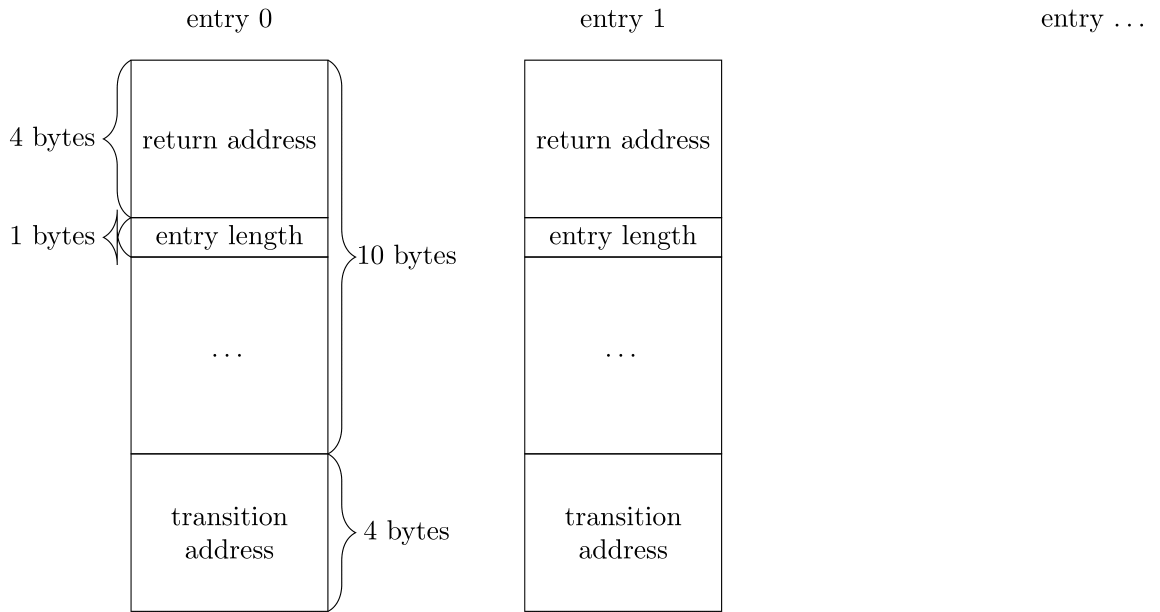
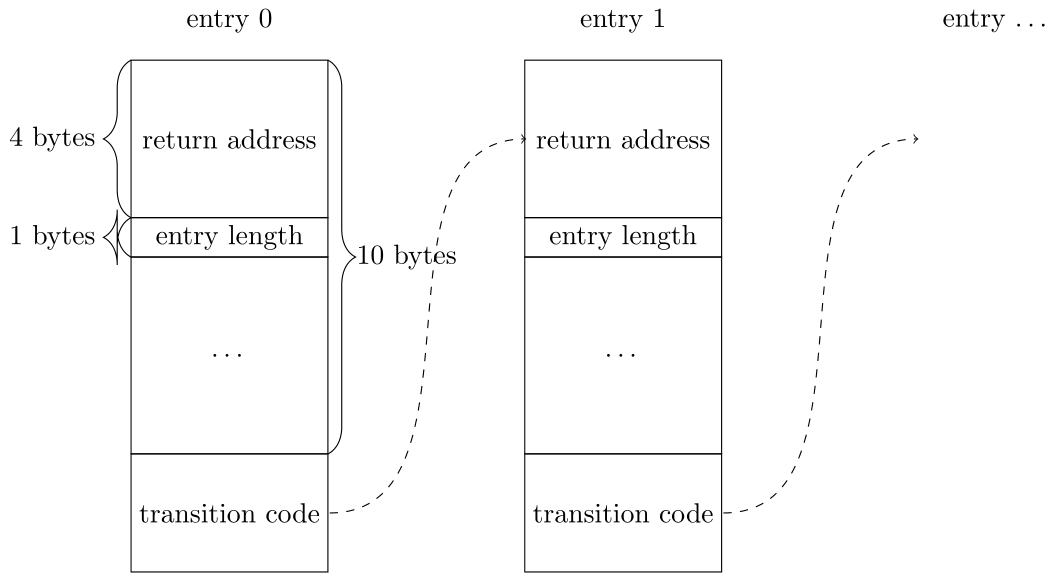
update

diff --git a/F4b_XOR_W4kfu_GreHack2015/diagram.tex b/F4b_XOR_W4kfu_GreHack2015/diagram.tex
@@ -20,17 +20,18 @@
   \draw[align=center] (0,0) rectangle node{return address} (2.5,2);
   \draw[] (0,-0.5) rectangle node{entry length} (2.5,0);
   \draw[] (0,-3) rectangle node{$\dots$} (2.5,-0.5);
-  \draw[align=center] (0,-5) rectangle node{transition \\ address} (2.5,-3);
+  \draw[align=center] (0,-4.5) rectangle node(tran0){transition code} (2.5,-3);
+  
   \draw[decorate,decoration={brace,amplitude=10pt}] (0,0) -- (0,2) node[black,midway,xshift=-1cm] {$4$ bytes};
   \draw[decorate,decoration={brace,amplitude=10pt}] (0,-0.5) -- (0,0) node[black,midway,xshift=-1cm] {$1$ bytes};
   \draw[decorate,decoration={brace,amplitude=10pt,mirror}] (2.5,-3) -- (2.5,2) node[black,midway,xshift=1cm] {$10$ bytes};
-  \draw[decorate,decoration={brace,amplitude=10pt,mirror}] (2.5,-5) -- (2.5,-3) node[black,midway,xshift=1cm] {$4$ bytes};
+  % \draw[decorate,decoration={brace,amplitude=10pt,mirror}] (2.5,-5) -- (2.5,-3) node[black,midway,xshift=1cm] {$4$ bytes};
   \draw[] (1.25,2.5) node{entry $0$};
 
-  \draw[align=center] (5,0) rectangle node{return address} (7.5,2);
+  \draw[align=center] (5,0) rectangle node(ret1){return address} (7.5,2);
   \draw[] (5,-0.5) rectangle node{entry length} (7.5,0);
   \draw[] (5,-3) rectangle node{$\dots$} (7.5,-0.5);
-  \draw[align=center] (5,-5) rectangle node{transition \\ address} (7.5,-3);
+  \draw[align=center] (5,-4.5) rectangle node(tran1){transition code} (7.5,-3);
   % \draw[decorate,decoration={brace,amplitude=10pt}] (5,0) -- (5,4) node[black,midway,xshift=-1cm] {$4$ bytes};
   % \draw[decorate,decoration={brace,amplitude=10pt}] (5,-1) -- (5,0) node[black,midway,xshift=-1cm] {$1$ bytes};
   % \draw[decorate,decoration={brace,amplitude=10pt,mirror}] (7.5,-6) -- (7.5,4) node[black,midway,xshift=1cm] {$10$ bytes};
@@ -38,8 +39,11 @@
   \draw[] (6.25,2.5) node{entry $1$};
 
   % \draw[align=center] (10,0) rectangle node{return address} (12.5,4);
-  \draw[] (12.25,2.5) node{entry $\dots$};
+  \draw[] (11,2.5) node{entry $\dots$};
   % \draw[] (12.25,-3.5) node{$\dots$};
+
+  \draw[->,dashed] (tran0) to[out=0,in=180] (ret1);
+  \draw[->,dashed] (tran1) to[out=0,in=180] (10,1);
 \end{tikzpicture}
 
 \end{document}

diff --git a/F4b_XOR_W4kfu_GreHack2015/f4b_xor_w4kfu.md b/F4b_XOR_W4kfu_GreHack2015/f4b_xor_w4kfu.md
@@ -34,7 +34,7 @@
   
   The program uses several **obfuscation** techniques to prevent itself from being analyzed. *First*, its execution traces are extremely long taking consideration that the program is *just* a CTF challenge; to get some idea about how long are these trace, after receiving the input, there are 2.716.465.511 instructions executed until the first comparison of the password checking procedure. This is because of a [code decryption/re-encryption](https://www.cosic.esat.kuleuven.be/wissec2006/papers/3.pdf) mechanism and of a [nested multiprocess virtual machine](https://aspire-fp7.eu/spro/wp-content/uploads/SPRO2015_Workshop_Talk_V2.pdf) execution model.
   
-  *Second*, the "input related" instructions in a trace are not local, they instead spread out the long trace, that makes difficult to figure out how the input password is manipulated and checked; moreover the password checking algorithm is "mostly" constant time. *Last but not least*, most instructions of the binary are encrypted, they are decrypted just before executing and are immediately re-encrypted later, so we cannot [unpack](http://s3.eurecom.fr/docs/oakland15_packing.pdf) it in the [classical sense](http://ftp.cs.wisc.edu/paradyn/papers/Roundy12Packers.pdf). 
+  *Second*, the "input related" instructions in a trace are not local, they instead spread out the long trace, that makes difficult to figure out how the input password is manipulated and checked; moreover the password checking algorithm is "mostly" constant time. *Last but not least*, most instructions of the binary are encrypted, they are decrypted just before executing and are immediately re-encrypted later, so we cannot [unpack](https://www.cs.arizona.edu/people/debray/Publications/static-unpacking.pdf) it in the [classical sense](http://ftp.cs.wisc.edu/paradyn/papers/Roundy12Packers.pdf). Such technique of code packing is classified into [type VI](http://s3.eurecom.fr/docs/oakland15_packing.pdf), the most sophisticated class of binary code packers.
   
   These properties make difficult for direct dynamic/concolic/static analysis. Low-hanging fruit approaches, e.g. black-box attack on counting number of executed instructions, seems not feasible: there is volume of more than 2.7 billion instructions must be passed before reaching the first "input sensitive" comparison
   
@@ -48,32 +48,36 @@
   
   But this short easy reversing time has finished, from now, easy codes do not exist anymore >:)
 
-## Code decryption/re-encryption mechanism
+### Code overwritting
 
-  Passing statically over simple instructions above, the next instructions seem "benign" :-), some `nop`(s), then a `call 0x40400`. However, Reven notices that there are lots of **execution after write** (i.e. some memory addresses are written before getting executed). Some of them are redundant alerts since the process mapping mechanism of `ntoskrnl.exe`, but the first one which really attracts our attention is at `0x402058`: the really executed instruction is `xor eax, eax`, instead of `js 0x40200d` from the static disassembling result.
+  Passing statically over simple instructions above, the next instructions seem "benign" :-), some `nop`(s), then a `call 0x40400`. However, Reven notices that there are lots of **execution after write** (i.e. some memory addresses are overwritten before getting executed). Some of them are redundant alerts since the process mapping mechanism of `ntoskrnl.exe`, but the first one which really attracts our attention is at `0x402058`: the really executed instruction is `xor eax, eax`, instead of `js 0x40200d` from the static disassembling result.
   
   ![Execution after write](./reven_exec_after_write.png)
   
   *Different form DBI tools and debuggers which work at process level, Reven works at system level, it can trace the [flow of creating a process](https://download.microsoft.com/download/1/4/0/14045A9E-C978-47D1-954B-92B9FD877995/97807356648739_SampleChapters.pdf) (i.e. before the program gets run), here many instructions of the binary are mapped (i.e. written) into the memory using some functions (e.g. `MiCopyOnWrite`) inside `ntoskrnl.exe`, then executed when the program gets run. Consequently, these instructions are redundantly marked as "execution after write".*
   
-  From static view in IDA, we can conclude that something following `call 0x40400` has modified the instruction at `0x402058`. We have more detail information with Reven, by backward [dynamic tainting analysis](http://bitblaze.cs.berkeley.edu/papers/taintcheck-full.pdf), it shows a chain of `read/write/execute` on this address, the nearest instruction which writes on the address is at `0x4042fa`, that is `stosb`.
+  There must be something following `call 0x40400` has modified the instruction at `0x402058`. By backward [dynamic tainting analysis](http://bitblaze.cs.berkeley.edu/papers/taintcheck-full.pdf), Reven shows a chain of `read/write/execute` on this address, the nearest instruction which writes on the address is at `0x4042fa`, that is `stosb`.
   
   ![Writting instruction](./reven_overwritting_ins.png)
   
-### First virtualization layer
+## First virtualization layer
   
-  We now know that the binary will modify some instructions before executing them, and this can be revealed by statically analysis the instructions following `call 0x40400`. To get an intuition about what is going on, we extract a partial *control flow graph* from the trace of Reven; the following graph is constructed from a trace of 10.000.000 instructions starting from `0x402048`.
+  We now know that the binary will modify some instructions before executing them, this can be revealed by examining the instructions following `call 0x40400`. To get an intuition about what is going on, we extract a partial *control flow graph* from the trace of Reven; the following graph is constructed from a trace of 10.000.000 instructions starting from `0x402048`.
   
   ![Partial control flow graph](./F4b_cfg_n.png)
   (this is a high-resolution image, click on it to observe the details)
 
   *The control flow graph given by Reven is partial since it is constructed based on the dynamic trace computed from running program with a concrete input, but it gives at least some information about which kind of code that we deal with.*
   
-  The form of control flow graph suggests that it may be a kind of **virtual machine** with [switch-based dispatcher](http://static.usenix.org/event/woot09/tech/full_papers/rolles.pdf). The typical form of such a VM consists of a dispatcher located in several basic blocks, but there would exist many "non trivial" basic blocks to which control flow is transferred from a much smaller number of "dispatch points". These non trivial basic blocks representing opcodes can be, for example, ones start with the instruction at `0x402513`, `0x40206a`, `0x4025d`, etc; the control flow transferred to all of them comes from the basic block ends with `0x4042e0`, which may be supposed that this is the *dispatch point* of the dispatcher. Moreover, these basic blocks transfer control flow to the same basic block start with the address `0x404000` (since they both end with `call 0x404000`), which may be supposed that this is the *entry point* of the dispatcher.
+  The form of control flow graph suggests that it may be a kind of **virtual machine** with [switch-based dispatcher](http://static.usenix.org/event/woot09/tech/full_papers/rolles.pdf). The typical form of such a VM consists of a *dispatcher* located in several basic blocks, but there would exist many "non trivial" basic blocks to which control flow is transferred from a much smaller number of "dispatch points".
+  
+  These non trivial basic blocks representing opcodes are possibly, for example, ones start with the instruction at `0x402513`, `0x40206a`, `0x4025d`, etc; the control flow transferred to all of them comes from the basic block ends with `0x4042e0`, which may be supposed that this is the *dispatch point* of the dispatcher.
+  
+  Moreover, these basic blocks transfer control flow to the same basic block start with the address `0x404000` (since they both end with `call 0x404000`), which may be supposed that this is the *entry point* of the dispatcher.
   
   There are also basic blocks, for example, ones start with `0x4043a4`, `0x404371`, `0x40428c`, etc; they might not represent opcodes since their semantics is trivial, just a simple unconditional`jmp 0x40428`.
   
-  Another indication which suggests that this is possibly a VM, is the number of distinguished instructions over the total number of executed instructions. Since the number of "virtual instructions" is normally much smaller than the number of the real hardware instructions (i.e.`x86` ISA), we would normally observe that there are not "too much" distinguished instructions in a binary obfuscated by a VM. The following diagram presents the number of distinguished instructions over the trace length (computed inside 10.000.000 instructions), we can observe that there is only about 500 distinguished instructions over a trace of length 10.000.000!!!
+  Another indication which suggests that this might be a VM, is the number of distinguished instructions over the total number of executed instructions. Since the number of "virtual instructions" is normally much smaller than the number of the real hardware instructions (i.e.`x86` ISA), we would normally observe that there are not "too much" distinguished instructions in a binary obfuscated by a VM. The following diagram presents the number of distinguished instructions over the trace length (computed inside 10.000.000 instructions), we can observe that there is only about 500 distinguished instructions over a trace of length 10.000.000!!!
   
   ![Instruction counting](./ins_count_histo.png)
 
@@ -94,12 +98,12 @@
   
   *The dispatcher uses `ret` to divert the control flow, the new return address is calculated dynamically. This technique is well known as [return oriented programming](https://en.wikipedia.org/wiki/Return-oriented_programming)*
   
-  The semantics of the loop is simple, it uses `ebx` which is the current return address (c.f. `pop` at `0x40402a` as well as `push` at `0x40400f`) to looks for an entry in a table at address `0x404309`, so that the `return address` is also the current return address, when the entry is found,  the `transition address` of the entry is used as the new return address. The structure of entries in this table is shown below.
+  The semantics of the loop is simple, it uses `ebx` which is the current return address (c.f. `pop` at `0x40402a` as well as `push` at `0x40400f`) to looks for an entry in a list at address `0x404309`, so that the `return address` is also the current return address. When the entry is found,  the new return address is the `transition code` of the entry. The structure of this list is shown below.
   
   ![Rop table](./reven_rop_table.png)
   
-  The position of the next examined entry is calculated from the position of the current entry and its length. So once we know the address of this table (which is `0x404309`), it can be completely parsed.
+  Entries in this list are consecutive: the position of the next entry is calculated by adding the position of the current entry with  its length. So once we know the starting address (which is `0x404309`), all entries can be completely located.
   
-#### Gadget bound computation and re-encryption
+#### Gadget's address computation and re-encryption
 
-  We now notice to `call`(s) at `0x404016` and `0x404022`, the called functions are "standard" (i.e. they return to where they are called), simple but important: they are strongly correlated. The first one, starts at 
+  We now notice to `call`(s) at `0x404016` and `0x404022`, the called functions are "standard", i.e. they return back to where they are called. These functions are strongly correlated, their semantics is simple but important. The first one, starts at 
